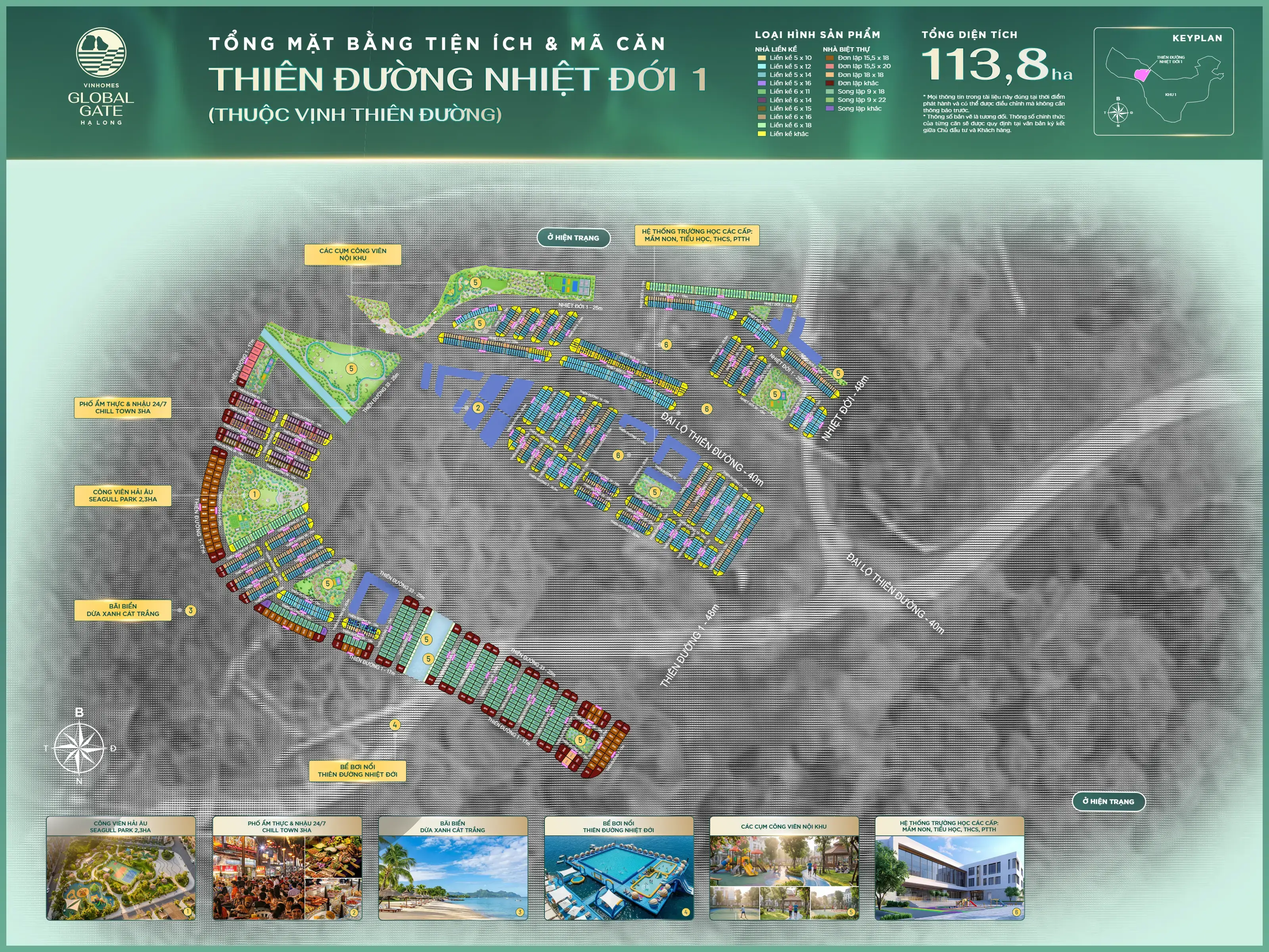
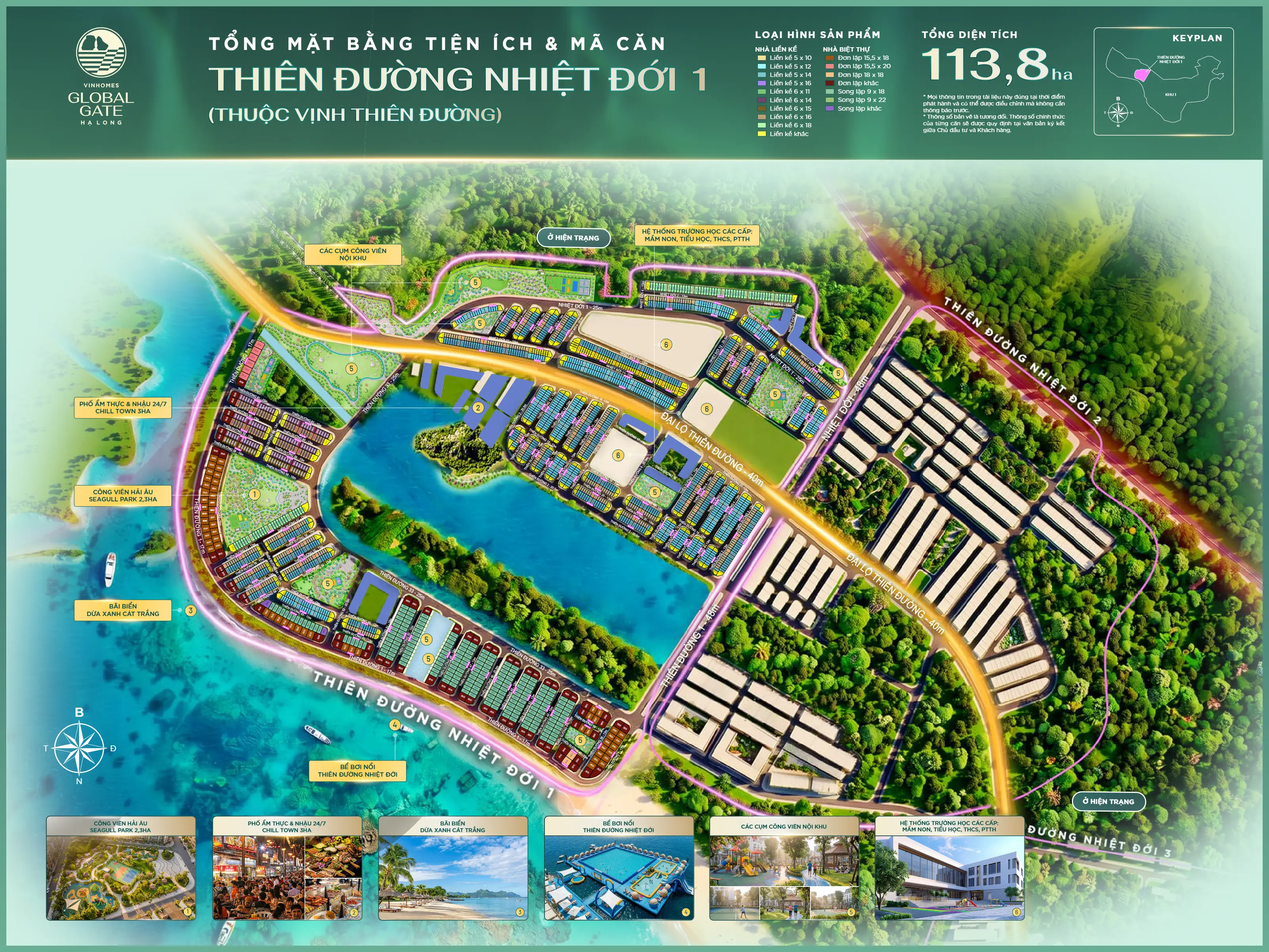
fix(tmb): correct gray water in TĐNĐ1 static WebP (stale colorspace bug)
Water/lake areas rendered gray instead of blue/green on the TĐNĐ1 static
background. Traced to a real, already-fixed bug (80dc042, "preserve PDF
image colorspace fidelity", Sep 6) that was never applied to the actual
asset: public/tmb-poc/tmb-hlx-tdnd1.pdf was generated by the optimizer
on Sep 5 (fef868b), one day *before* that fix landed, and was never
regenerated afterward. Its two background image XObjects (ref 199/200,
7757x5157) still carry the malformed /ColorSpace dict entries the fix
was written for (/#2FDeviceRGB, /#2FDeviceGray — PDFName.of() double-
encoding a slash that was already present in the input string), which
no renderer can resolve as a real colorspace.

Verified directly: read the dict entries in the committed PDF and
confirmed the exact corruption described in 80dc042 is present. Fixed
in place by correcting just the two malformed dict names (no image data
re-encoded, no re-run of the downsample pipeline — lowest-risk fix for a
pure dict-name bug), then re-rasterized through the same offline
pdf.js-based process at the same parameters (scale=2, WebP q=0.72) used
for every other TMB static asset. The corrected image now shows the lake
in proper blue/turquoise and the landscape in natural green, matching
what an aerial photo of the site should look like.

Same dimensions (3200x2400) and 1600x1200 logical geometry — no marker
coordinate or architecture changes.

diff --git a/src/app/stacking/tmb-map-data.ts b/src/app/stacking/tmb-map-data.ts
@@ -236,14 +236,27 @@ export const TMB_HLX_TDND1_PDF_URL = '/tmb-poc/tmb-hlx-tdnd1.pdf';
  * renderer TmbMap.tsx vẫn dùng cho profile khác, đảm bảo khớp thị giác) trên
  * TMB_HLX_TDND1_PDF_URL ở scale=2 (3200×2400px, gấp đôi trang gốc 1600×1200 —
  * đủ nét cho zoom thực tế, không phải chất lượng in ấn), export WebP q=0.72 —
- * 1,543,626 bytes thực đo trên đĩa (giảm ~85% so với PDF gốc 10,238,869
+ * 1,156,584 bytes thực đo trên đĩa (giảm ~89% so với PDF gốc 10,238,869
  * bytes). TmbMap.tsx chỉ tải + vẽ 1 lần lên canvas — KHÔNG getDocument/
  * getPage/render pdf.js, loại bỏ hoàn toàn rủi ro thực thi ~207,250 PDF
  * content-stream operator (70,426 showText) đã audit + xác nhận gây crash
  * thật trên iPhone production (?tmbdiag=1: log dừng đúng tại
  * page.render:start, không có page.render:complete/STABLE-OPEN-STATE-REACHED
  * sau đó) — xem tmb-map-static-background.ts cho cách marker pdfX/pdfY vẫn
- * map đúng toạ độ dù không còn pdf.js ở đường này. */
+ * map đúng toạ độ dù không còn pdf.js ở đường này.
+ *
+ * GRAY-WATER FIDELITY FIX (Sep 9 audit): asset đầu tiên (1,543,626 bytes)
+ * rasterize từ public/tmb-poc/tmb-hlx-tdnd1.pdf lúc file đó VẪN mang lỗi đã
+ * fix ở 80dc042 ("fix(tmb): preserve PDF image colorspace fidelity", Sep 6)
+ * — file PDF derivative này được tạo (fef868b, Sep 5) TRƯỚC fix đó và
+ * KHÔNG BAO GIỜ được optimize lại sau khi fix, nên vẫn giữ nguyên `/ColorSpace`
+ * hỏng (`/#2FDeviceRGB`/`/#2FDeviceGray` do PDFName.of() double-encode dấu
+ * "/") trên 2 image XObject nền (ref 199/200, 7757×5157) — pdf.js không
+ * resolve được colorspace hỏng nên render ra màu xám/sai (hồ nước, vốn phải
+ * xanh dương/xanh lá, thành xám). Fix: sửa TRỰC TIẾP 2 entry `/ColorSpace`
+ * hỏng trong CHÍNH file PDF đã commit (chỉ đổi tên dict, KHÔNG đổi/re-encode
+ * lại bytes ảnh JPEG — ít rủi ro nhất, không cần chạy lại toàn bộ pipeline
+ * downsample) rồi rasterize lại — KHÔNG đổi cách rasterize/scale/quality. */
 export const TMB_HLX_TDND1_STATIC_IMAGE_URL = '/tmb-poc/tmb-hlx-tdnd1.webp';
 
 /** Kích thước content-space (BASE_SCALE=1) của TĐNĐ1 — ĐÚNG kích thước trang
